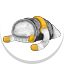
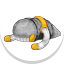
Nuevos iconos de Gunbudos y algun cambio menor de CSS

Changed region(s): [[0.0312, 0.25, 0.9688, 0.8125], [0.7812, 0.3438, 0.8125, 0.375]]

diff --git a/css/main.css b/css/main.css
@@ -245,6 +245,7 @@ footer a{
     margin:0 1.5em 0 0;
     text-decoration: none;
     font-size: .8em;
+    display: inline-block;
 }
 
 #secondary_nav p a:hover{
@@ -447,7 +448,7 @@ label.title{
     border-style: solid;
     border-radius: 3px;
     border-width: 3px 0 3px 0;
-    padding: .7em 1em;
+    padding: .5em 1em;
     background-color: #e0e0e0;
     border-color: transparent transparent #c5c5c5;
     cursor: pointer;
@@ -859,13 +860,15 @@ img.grayScale{
     width: 25em;
     margin: 6% auto;
     background: white;
-    padding: 1em 2em;
+    padding: .5em 2em;
 }
 
 .sdcontent h1{
     font-size: 1.2em;
     font-weight: bold;
     text-align: left;
+    padding: .5em 1.8em;
+    background: #e0e0e0;
 }
 
 .sdcontent h1 span{
@@ -878,17 +881,18 @@ img.grayScale{
 }
 
 .sdcontent .skillDesc{
-    padding: .7em 2em .7em 2em;
-    margin: .9em -2em;
-    background: #00924a;
+    padding: .7em 3em;
+    background: #303030;
     color: #ffffff;
     font-style: italic;
     text-align: left;
     line-height: 1.5em;
+    font-size: .8em;
 }
 
 .sdcontent dl{
     text-align: left;
+    padding: 1em 2em;
 }
 
 .sdcontent dt{
@@ -909,7 +913,8 @@ img.grayScale{
     text-align: center;
 }
 #skillsUserBlock .sdcontent dd ul{
-    margin: 1em 0 0 0em;
+    clear: both;
+    padding: 3em 0;
     text-align: center;
 }
 
